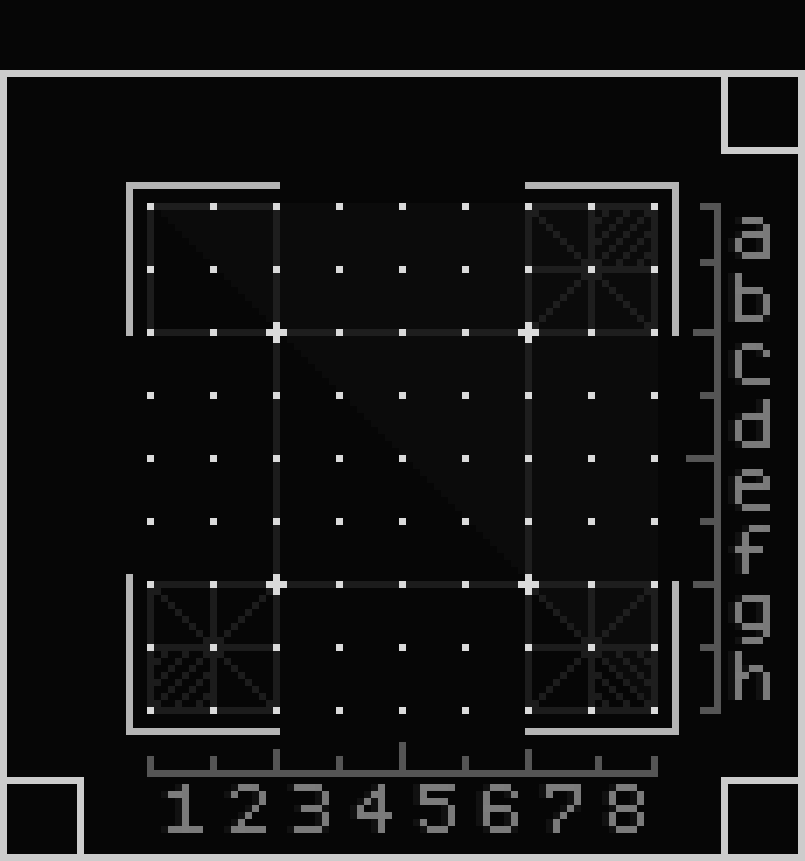
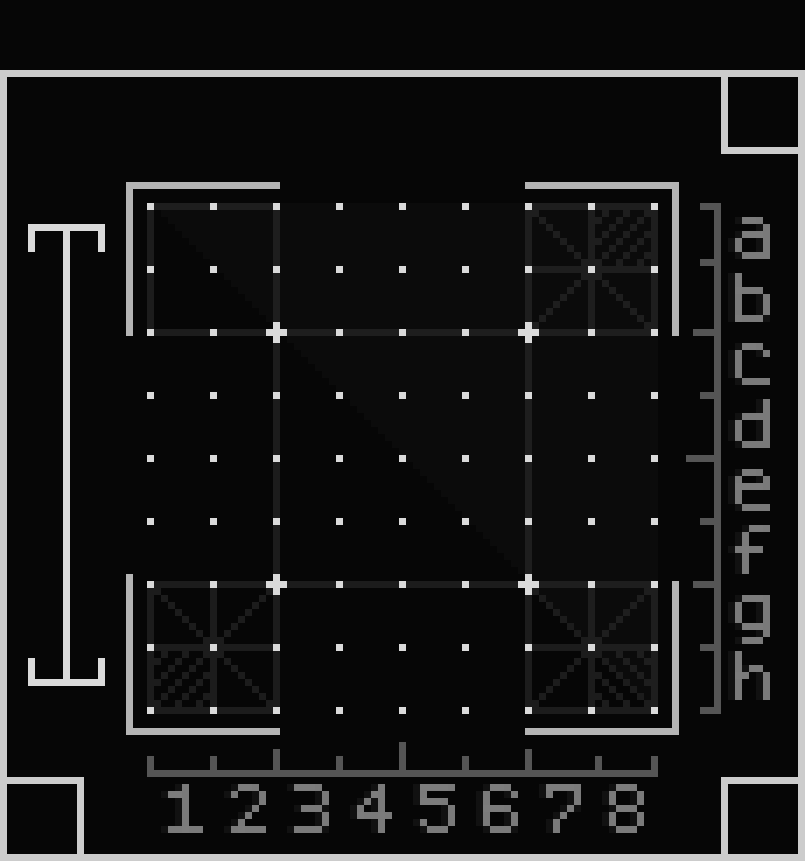
se implementaron los contadores de puntaje

Changed region(s): [[0.0311, 0.2416, 0.1242, 0.8153], [0.1242, 0.7549, 0.1553, 0.7851], [0.1242, 0.2718, 0.1553, 0.302]]

diff --git a/src/app/components/ScoreDisplay.java b/src/app/components/ScoreDisplay.java
@@ -1,0 +1,109 @@
+package app.components;
+
+import java.awt.Color;
+import java.awt.Dimension;
+import java.awt.FlowLayout;
+import java.awt.GridLayout;
+
+import javax.swing.Box;
+import javax.swing.BoxLayout;
+import javax.swing.JLabel;
+import javax.swing.JPanel;
+
+import app.App;
+import app.GameConfiguration;
+import app.SourceManager;
+
+public class ScoreDisplay extends JPanel {
+
+	GameConfiguration currentGameConfig;
+
+	JLabel player1ScoreLabel;
+	JLabel player2ScoreLabel;
+
+	JPanel scoreColorBar;
+	JLabel scoreColorBarPoints[];
+
+	// this component is only instaciated when the program enters the game view so,
+	// the configuration exists for sure
+	public ScoreDisplay() {
+		currentGameConfig = App.sharedInstance.getCurrentGameConfiguration();
+		scoreColorBarPoints = new JLabel[64];
+
+		setLayout(new FlowLayout());
+
+		player2ScoreLabel = new JLabel();
+		player2ScoreLabel.setText("99");
+		player2ScoreLabel.setHorizontalTextPosition(JLabel.LEFT);
+		player2ScoreLabel.setIcon(currentGameConfig.getPlayer2Icon());
+		player2ScoreLabel.setFont(SourceManager.appFont.deriveFont(26f));
+		player2ScoreLabel.setForeground(
+				GameConfiguration.charactersNames2Colors.get(currentGameConfig.getPlayer2CharacterName()));
+		player2ScoreLabel.setIconTextGap(-5);
+		add(player2ScoreLabel);
+
+		// -------------
+
+		scoreColorBar = new JPanel();
+		scoreColorBar.setPreferredSize(new Dimension(100, 448));
+		scoreColorBar.setLayout(new BoxLayout(scoreColorBar, BoxLayout.Y_AXIS));
+		scoreColorBar.setOpaque(false);
+
+		for (int i = 0; i < 64; i++) {
+			JLabel barPoint = new JLabel(" ");
+			Dimension labelSize = new Dimension(40, 7);
+			barPoint.setPreferredSize(labelSize);
+			barPoint.setOpaque(false);
+			barPoint.setBackground(Color.BLUE);
+			barPoint.setMinimumSize(labelSize);
+			barPoint.setMaximumSize(labelSize);
+			barPoint.setAlignmentX(JLabel.CENTER_ALIGNMENT);
+
+			// scoreColorBar.add(Box.createRigidArea(new Dimension(0, 0)));
+			scoreColorBar.add(barPoint);
+			scoreColorBarPoints[i] = barPoint;
+		}
+		add(scoreColorBar);
+
+		// ---------
+
+		player1ScoreLabel = new JLabel();
+		player1ScoreLabel.setText("99");
+		player1ScoreLabel.setHorizontalTextPosition(JLabel.RIGHT);
+		player1ScoreLabel.setIcon(currentGameConfig.getPlayer1Icon());
+		player1ScoreLabel.setFont(SourceManager.appFont.deriveFont(26f));
+		player1ScoreLabel.setForeground(
+				GameConfiguration.charactersNames2Colors.get(currentGameConfig.getPlayer1CharacterName()));
+		player1ScoreLabel.setIconTextGap(-5);
+		add(player1ScoreLabel);
+	}
+
+	public void updatePlayerScore(int player1Score, int player2Score) {
+
+		player1ScoreLabel.setText(player1Score + "");
+		player2ScoreLabel.setText(player2Score + "");
+
+		for (int i = 0; i < 64; i++) {
+			JLabel pointBar = scoreColorBarPoints[i];
+			pointBar.setOpaque(false);
+
+			if (i < player2Score) {
+				Color playerColor = GameConfiguration.charactersNames2Colors
+						.get(currentGameConfig.getPlayer2CharacterName());
+				if (i % 2 == 0) {
+					playerColor = playerColor.darker();
+				}
+				pointBar.setOpaque(true);
+				pointBar.setBackground(playerColor);
+			} else if (i >= (64 - player1Score)) {
+				Color playerColor = GameConfiguration.charactersNames2Colors
+						.get(currentGameConfig.getPlayer1CharacterName());
+				if (i % 2 == 0) {
+					playerColor = playerColor.darker();
+				}
+				pointBar.setBackground(playerColor);
+				pointBar.setOpaque(true);
+			}
+		}
+	}
+}

diff --git a/src/app/views/GameView.java b/src/app/views/GameView.java
@@ -16,6 +16,7 @@ import app.GameConfiguration;
 import app.GameModes;
 import app.SourceManager;
 import app.components.GameBoardButton;
+import app.components.ScoreDisplay;
 import reversi.*;
 
 public class GameView extends View {
@@ -26,6 +27,7 @@ public class GameView extends View {
 	GameConfiguration gameConfig;
 
 	JLabel statusDisplay;
+	ScoreDisplay scoreDisplay;
 	int turnCount;
 
 	@Override
@@ -34,8 +36,22 @@ public class GameView extends View {
 
 		game = new Reversi();
 		turnCount = 0;
-		statusDisplayPlayerTurn();
+
+		scoreDisplay = new ScoreDisplay();
+		scoreDisplay.setBounds(15, 157, 103, 750);
+		scoreDisplay.setOpaque(false);
+		scoreDisplay.updatePlayerScore(2, 2);
+		add(scoreDisplay);
+
 		render(game.getGameBoardGridCurrentState());
+
+		// always leave at the end
+		JLabel background = new JLabel();
+		background.setBounds(0, -8, 805, 861);
+		background.setBackground(Color.red);
+		background.setOpaque(true);
+		background.setIcon(SourceManager.getSpriteImage("GameBoard"));
+		add(background);
 	}
 
 	public GameView(String name) {
@@ -66,17 +82,11 @@ public class GameView extends View {
 		}
 
 		add(board);
-
-		JLabel background = new JLabel();
-		background.setBounds(0, -8, 805, 861);
-		background.setBackground(Color.red);
-		background.setOpaque(true);
-		background.setIcon(SourceManager.getSpriteImage("GameBoard"));
-		add(background);
 	}
 
 	private void render(Disc board[][]) {
 		statusDisplayPlayerTurn();
+		scoreDisplay.updatePlayerScore(game.getBlackDiscCount(), game.getWhiteDiscCount());
 
 		for (int y = 0; y < 8; y++) {
 			for (int x = 0; x < 8; x++) {
